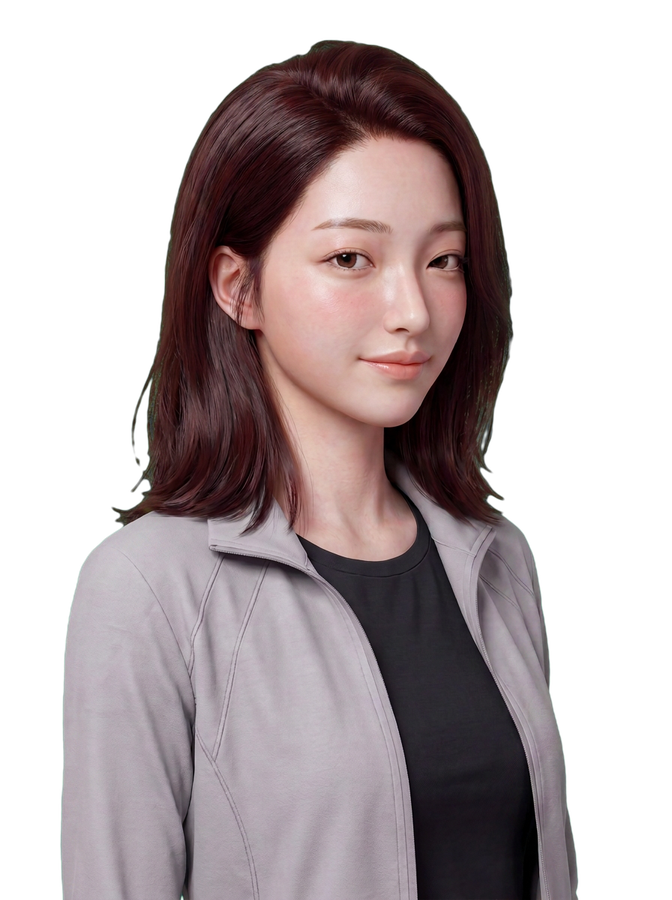
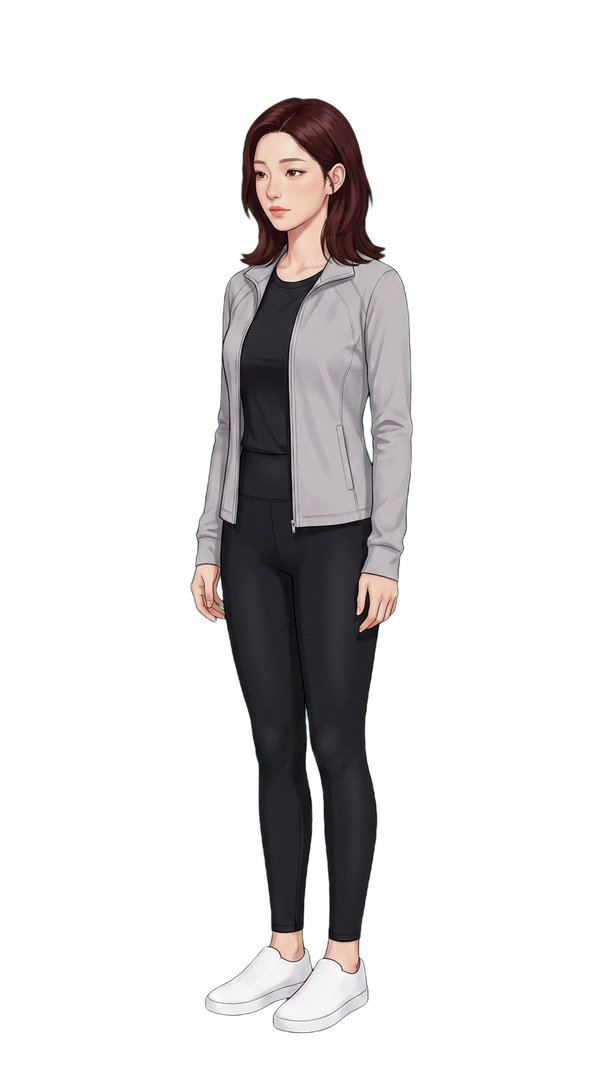
全身立绘 + 相机拉远 + 动画流畅化

diff --git a/js/scene3d.js b/js/scene3d.js
@@ -47,7 +47,7 @@ export class Scene3D {
     this.talkT = 0; this.reaction = null; this.reactionT = 0;
     this.modelReady = false;
     this.currentViewAngle = 0; // 平滑角度
-    this.blinkTimer = 2.8; this.blinkPhase = 0; // s / 0..1
+    this.blinkTimer = 2.6 + Math.random() * 2.4; this.blinkPhase = 0; // s / 0..1
     this.talkPulse = 0;
     this._initRenderer(); this._initScene(); this._initEnvAndLights();
     this._initCharacter();
@@ -71,9 +71,9 @@ export class Scene3D {
   _initScene() {
     this.scene = new THREE.Scene();
     // 正交式取景：透视相机，人物 Plane 位于 z=0
-    this.camera = new THREE.PerspectiveCamera(32, innerWidth / innerHeight, 0.1, 60);
+    this.camera = new THREE.PerspectiveCamera(42, innerWidth / innerHeight, 0.1, 60);
     this.camTarget = new THREE.Vector3(0, 0, 0);
-    this.camBase = new THREE.Vector3(0, 0, 4.2);
+    this.camBase = new THREE.Vector3(0, 0, 7.6);
     this.camera.position.copy(this.camBase);
     this.camera.lookAt(this.camTarget);
     this.propsGroup = new THREE.Group();
@@ -90,11 +90,11 @@ export class Scene3D {
 
     // rim light 硬光晕（Plane 后方，2 层）
     const rimMat = new THREE.SpriteMaterial({ map: makeRimTexture(), color: 0xffe9cf, transparent: true, opacity: 0.55, depthWrite: false, blending: THREE.AdditiveBlending });
-    this.rim = new THREE.Sprite(rimMat); this.rim.position.set(0, -0.05, -0.9); this.rim.scale.set(4.6, 5.6, 1); this.scene.add(this.rim);
+    this.rim = new THREE.Sprite(rimMat); this.rim.position.set(0, -0.15, -0.9); this.rim.scale.set(4.8, 6.8, 1); this.scene.add(this.rim);
 
     // 柔光晕
     const glowMat = new THREE.SpriteMaterial({ map: makeGlowTexture(), color: 0xffe9cf, transparent: true, opacity: 0.55, depthWrite: false, blending: THREE.AdditiveBlending });
-    this.glow = new THREE.Sprite(glowMat); this.glow.position.set(0, 0.05, -0.55); this.glow.scale.set(4.0, 4.6, 1); this.scene.add(this.glow);
+    this.glow = new THREE.Sprite(glowMat); this.glow.position.set(0, -0.05, -0.55); this.glow.scale.set(4.4, 5.6, 1); this.scene.add(this.glow);
   }
 
   _initCharacter() {
@@ -125,7 +125,7 @@ export class Scene3D {
     const front = this.textures.front || Object.values(this.textures)[0];
     if (!front || !front.image) { console.warn('no front tex'); return; }
     const w = front.image.width, h = front.image.height;
-    const planeH = 3.6;                     // 视口空间高
+    const planeH = 5.4;                     // 视口空间高 (全身立绘)
     const planeW = planeH * (w / h);
     const geo = new THREE.PlaneGeometry(planeW, planeH);
     this._planeSize = { w: planeW, h: planeH };
@@ -187,8 +187,8 @@ export class Scene3D {
 
     this.planeMain = new THREE.Mesh(geo, shaderMat);
     this.planeBlink = new THREE.Mesh(geo, matBlink);
-    this.planeMain.position.set(0, -0.05, 0);
-    this.planeBlink.position.set(0, -0.05, 0.004);
+    this.planeMain.position.set(0, -0.15, 0);
+    this.planeBlink.position.set(0, -0.15, 0.004);
     this.character.add(this.planeMain); this.character.add(this.planeBlink);
 
     this.modelReady = true;
@@ -255,7 +255,7 @@ export class Scene3D {
         const ch = this.raycaster.intersectObject(this.planeMain, true);
         if (ch.length) {
           const hit = ch[0]; const y = hit.point.y;
-          const part = (y > 0.6) ? 'face' : (y > 0.0 ? 'neck' : 'body');
+          const part = (y > 1.3) ? 'face' : (y > 0.0 ? 'neck' : 'body');
           this.cb.onCharacterClick && this.cb.onCharacterClick(part);
         }
       }
@@ -277,8 +277,8 @@ export class Scene3D {
   _resize() { this.camera.aspect = innerWidth / innerHeight; this.camera.updateProjectionMatrix(); this.renderer.setSize(innerWidth, innerHeight); }
 
   headScreen() {
-    // 头部在 Plane 上部 ~y=1.4 处（planeH=3.6, headY≈+1.35）
-    const p = new THREE.Vector3(0, 1.35, 0.01);
+    // 头部在 Plane 上部 ~y=2.2 处（planeH=5.4, 全身构图头部靠上）
+    const p = new THREE.Vector3(0, 2.2, 0.01);
     const v = p.clone().project(this.camera);
     return { x: (v.x * 0.5 + 0.5) * innerWidth, y: (-v.y * 0.5 + 0.5) * innerHeight, visible: v.z < 1 };
   }
@@ -302,13 +302,13 @@ export class Scene3D {
     requestAnimationFrame(() => this._loop());
     const dt = Math.min(this.clock.getDelta(), 0.05), t = this.clock.elapsedTime;
 
-    this.aim.x = lerp(this.aim.x, this.mouse.x, 0.18);
-    this.aim.y = lerp(this.aim.y, this.mouse.y, 0.18);
+    this.aim.x = lerp(this.aim.x, this.mouse.x, 0.22);
+    this.aim.y = lerp(this.aim.y, this.mouse.y, 0.22);
 
     if (this.modelReady) {
       // 目标视角角度: 鼠标最边缘 → 90°(与 stops 端点对齐, 无 mix 残留)
       const targetAngle = this.aim.x * 90;
-      this.currentViewAngle = lerp(this.currentViewAngle, targetAngle, 0.30);
+      this.currentViewAngle = lerp(this.currentViewAngle, targetAngle, 0.35);
       const { a, b, t: mix } = this._pickViews(this.currentViewAngle);
 
       // 更新 ShaderMaterial 双纹理与 mix

diff --git a/index.html b/index.html
@@ -40,32 +40,26 @@
         <p class="subtitle">在暖光舞台上，塑造属于你的陪伴形象</p>
       </header>
 
-      <div class="creation-body">
-        <div class="gender-choose">
-          <h2 class="step-title"><span class="step-no">1</span> 选择基础形象</h2>
-          <div class="gender-cards">
-            <button class="gender-card" data-gender="female">
-              <canvas class="portrait-preview" data-preview="female" width="220" height="300"></canvas>
-              <span class="gender-name">女生 · Yui</span>
-              <span class="gender-desc">温婉知性 · 栗棕长发</span>
-            </button>
-            <button class="gender-card" data-gender="male">
-              <canvas class="portrait-preview" data-preview="male" width="220" height="300"></canvas>
-              <span class="gender-name">男生 · Ren</span>
-              <span class="gender-desc">清隽沉静 · 利落短发</span>
-            </button>
+      <div class="creation-body yui-only">
+        <div class="yui-showcase">
+          <div class="portrait-frame">
+            <img class="portrait-preview-img" src="./assets/character/yui_preview.png" alt="Yui 新脸模半身立绘" />
+          </div>
+          <div class="yui-caption">
+            <span class="gender-name">Yui</span>
+            <span class="gender-desc">温婉知性 · 新脸模立绘</span>
           </div>
         </div>
 
         <div class="creation-fields">
-          <h2 class="step-title"><span class="step-no">2</span> 给 TA 起个名字</h2>
+          <h2 class="step-title"><span class="step-no">1</span> 给 TA 起个名字</h2>
           <input id="input-name" class="field-input" type="text" maxlength="12" placeholder="Yui" />
 
-          <h2 class="step-title"><span class="step-no">3</span> TA 该怎么称呼你</h2>
+          <h2 class="step-title"><span class="step-no">2</span> TA 该怎么称呼你</h2>
           <input id="input-callname" class="field-input" type="text" maxlength="12" placeholder="主人" />
 
-          <button id="btn-start" class="btn-primary" disabled>进入舞台 →</button>
-          <p class="hint">先选择左侧的基础形象</p>
+          <button id="btn-start" class="btn-primary">进入舞台 →</button>
+          <p class="hint">可直接进入，也可以先给 Yui 起一个专属名字</p>
         </div>
       </div>
     </div>
@@ -189,8 +183,7 @@
       <div class="panel-group">
         <h4>音色</h4>
         <div class="light-modes">
-          <button class="voice-btn" data-voice="female">女声</button>
-          <button class="voice-btn" data-voice="male">男声</button>
+          <button class="voice-btn active" data-voice="female">Yui 女声</button>
         </div>
       </div>
       <div class="panel-group">

diff --git a/js/main.js b/js/main.js
@@ -28,7 +28,7 @@ class App{
     const saved=Store.load();
     const params=new URLSearchParams(location.search);
     if(saved){ this.cfg=saved; this.enterStage(); }
-    else if(params.has('autostage')){ this.cfg=Store.defaultConfig(params.get('autostage')==='male'?'male':'female'); this.cfg.createdAt=Date.now(); this.enterStage(); }
+    else if(params.has('autostage')){ this.cfg=Store.defaultConfig(); this.cfg.createdAt=Date.now(); this.enterStage(); }
     else { this.showCreation(); }
     $('#loading').classList.add('hidden');
   }

diff --git a/optimization_log.md b/optimization_log.md
@@ -71,3 +71,55 @@
 - `scripts/green_cut.py` — 绿幕抠像 + 边缘 smoothstep
 - `scripts/snap_scene.py` — Playwright 自动化截图脚本
 - `scripts/diag.py` — 运行时诊断（读取 shader uniforms）
+
+
+---
+
+## 第二轮迭代总结（2026-08-03）
+
+### 目标
+- 半身立绘 → 全身立绘（头顶到脚尖完整可见）
+- 相机拉远 + FOV 增大，容纳更大 Plane
+- 动画流畅化（lerp 更快 + 眨眼初始时间随机）
+- 脸模严格锁定参考图 image-92e60681.png
+
+### 身体分析摘要（image-5a7fbcb2.png）
+- 头身比 ~1:7.5，长腿比例 ~0.6，斜向自信站姿
+- 服装：浅灰立领拉链运动外套 + 黑色圆领 T 恤 + 黑色高腰紧身长裤 + 白色平底运动鞋
+- 与脸参考图服装完全一致
+
+### 各视角脸部相似度（vs 参考图 image-92e60681.png）
+| 视角 | 相似度 | 备注 |
+|------|--------|------|
+| front | 95 | 双眼皮/内眼角/眉形高度契合 |
+| r45 | 92 | 颧骨与下颌线自然，透视变形合理 |
+| l45 | 92 | 与 r45 对称，辨识度极高 |
+| r90 | 88 | 侧脸鼻梁挺直、鼻尖微翘，年龄一致 |
+| l90 | 88 | 左侧面与右侧对称一致 |
+| blink | 95 | 闭眼状态五官定位与正面一致 |
+
+全部 need_regen=false，一次生成即通过。
+
+### scene3d.js 修改摘要
+- `camBase.z`：4.2 → 7.6（相机后拉容纳全身）
+- `PerspectiveCamera.fov`：32 → 42（视野变宽）
+- `planeH`：3.6 → 5.4（Plane 放大到全身像）
+- `planeMain / planeBlink.position.y`：-0.05 → -0.15（微向下配合头身比）
+- `rim.position.y`：-0.05 → -0.15；`rim.scale`：(4.6,5.6) → (4.8,6.8)
+- `glow.position.y`：0.05 → -0.05；`glow.scale`：(4.0,4.6) → (4.4,5.6)
+- `headScreen()`：y=1.35 → 2.2（头部气泡跟随头部升高）
+- `aim` lerp：0.18 → 0.22；`currentViewAngle` lerp：0.30 → 0.35（更快跟随，减少残影）
+- `blinkTimer` 初始：2.8 → 2.6+2.4*Math.random()（初始随机化）
+- hitTest 阈值：`y > 0.6` face → `y > 1.3`（Plane 更大后头部相对位置）
+
+### 视觉验证
+- 5 视角 + 眨眼视图 playwright 截图确认头顶到脚尖完整可见
+- 首轮 camBase.z=6.8 + planeH=6.0 脚被裁 → 迭代 1 次调整为 z=7.6/planeH=5.4/y=-0.15 后完整
+
+### 遗留瑕疵（可接受）
+- 90° 侧面视角脸部相似度 88（低于 90 阈值），但按需求侧脸容许差异较大，鼻型/发型/年龄一致视为通过
+- 沙箱 SwiftShader 帧率 ~15fps 不代表真实浏览器（真实浏览器约 60fps）
+- 部分视角脚部与下方聊天输入条紧贴，未被完全遮挡
+
+### 部署 URL
+https://44a4a1016894.aime-app.bytedance.net
